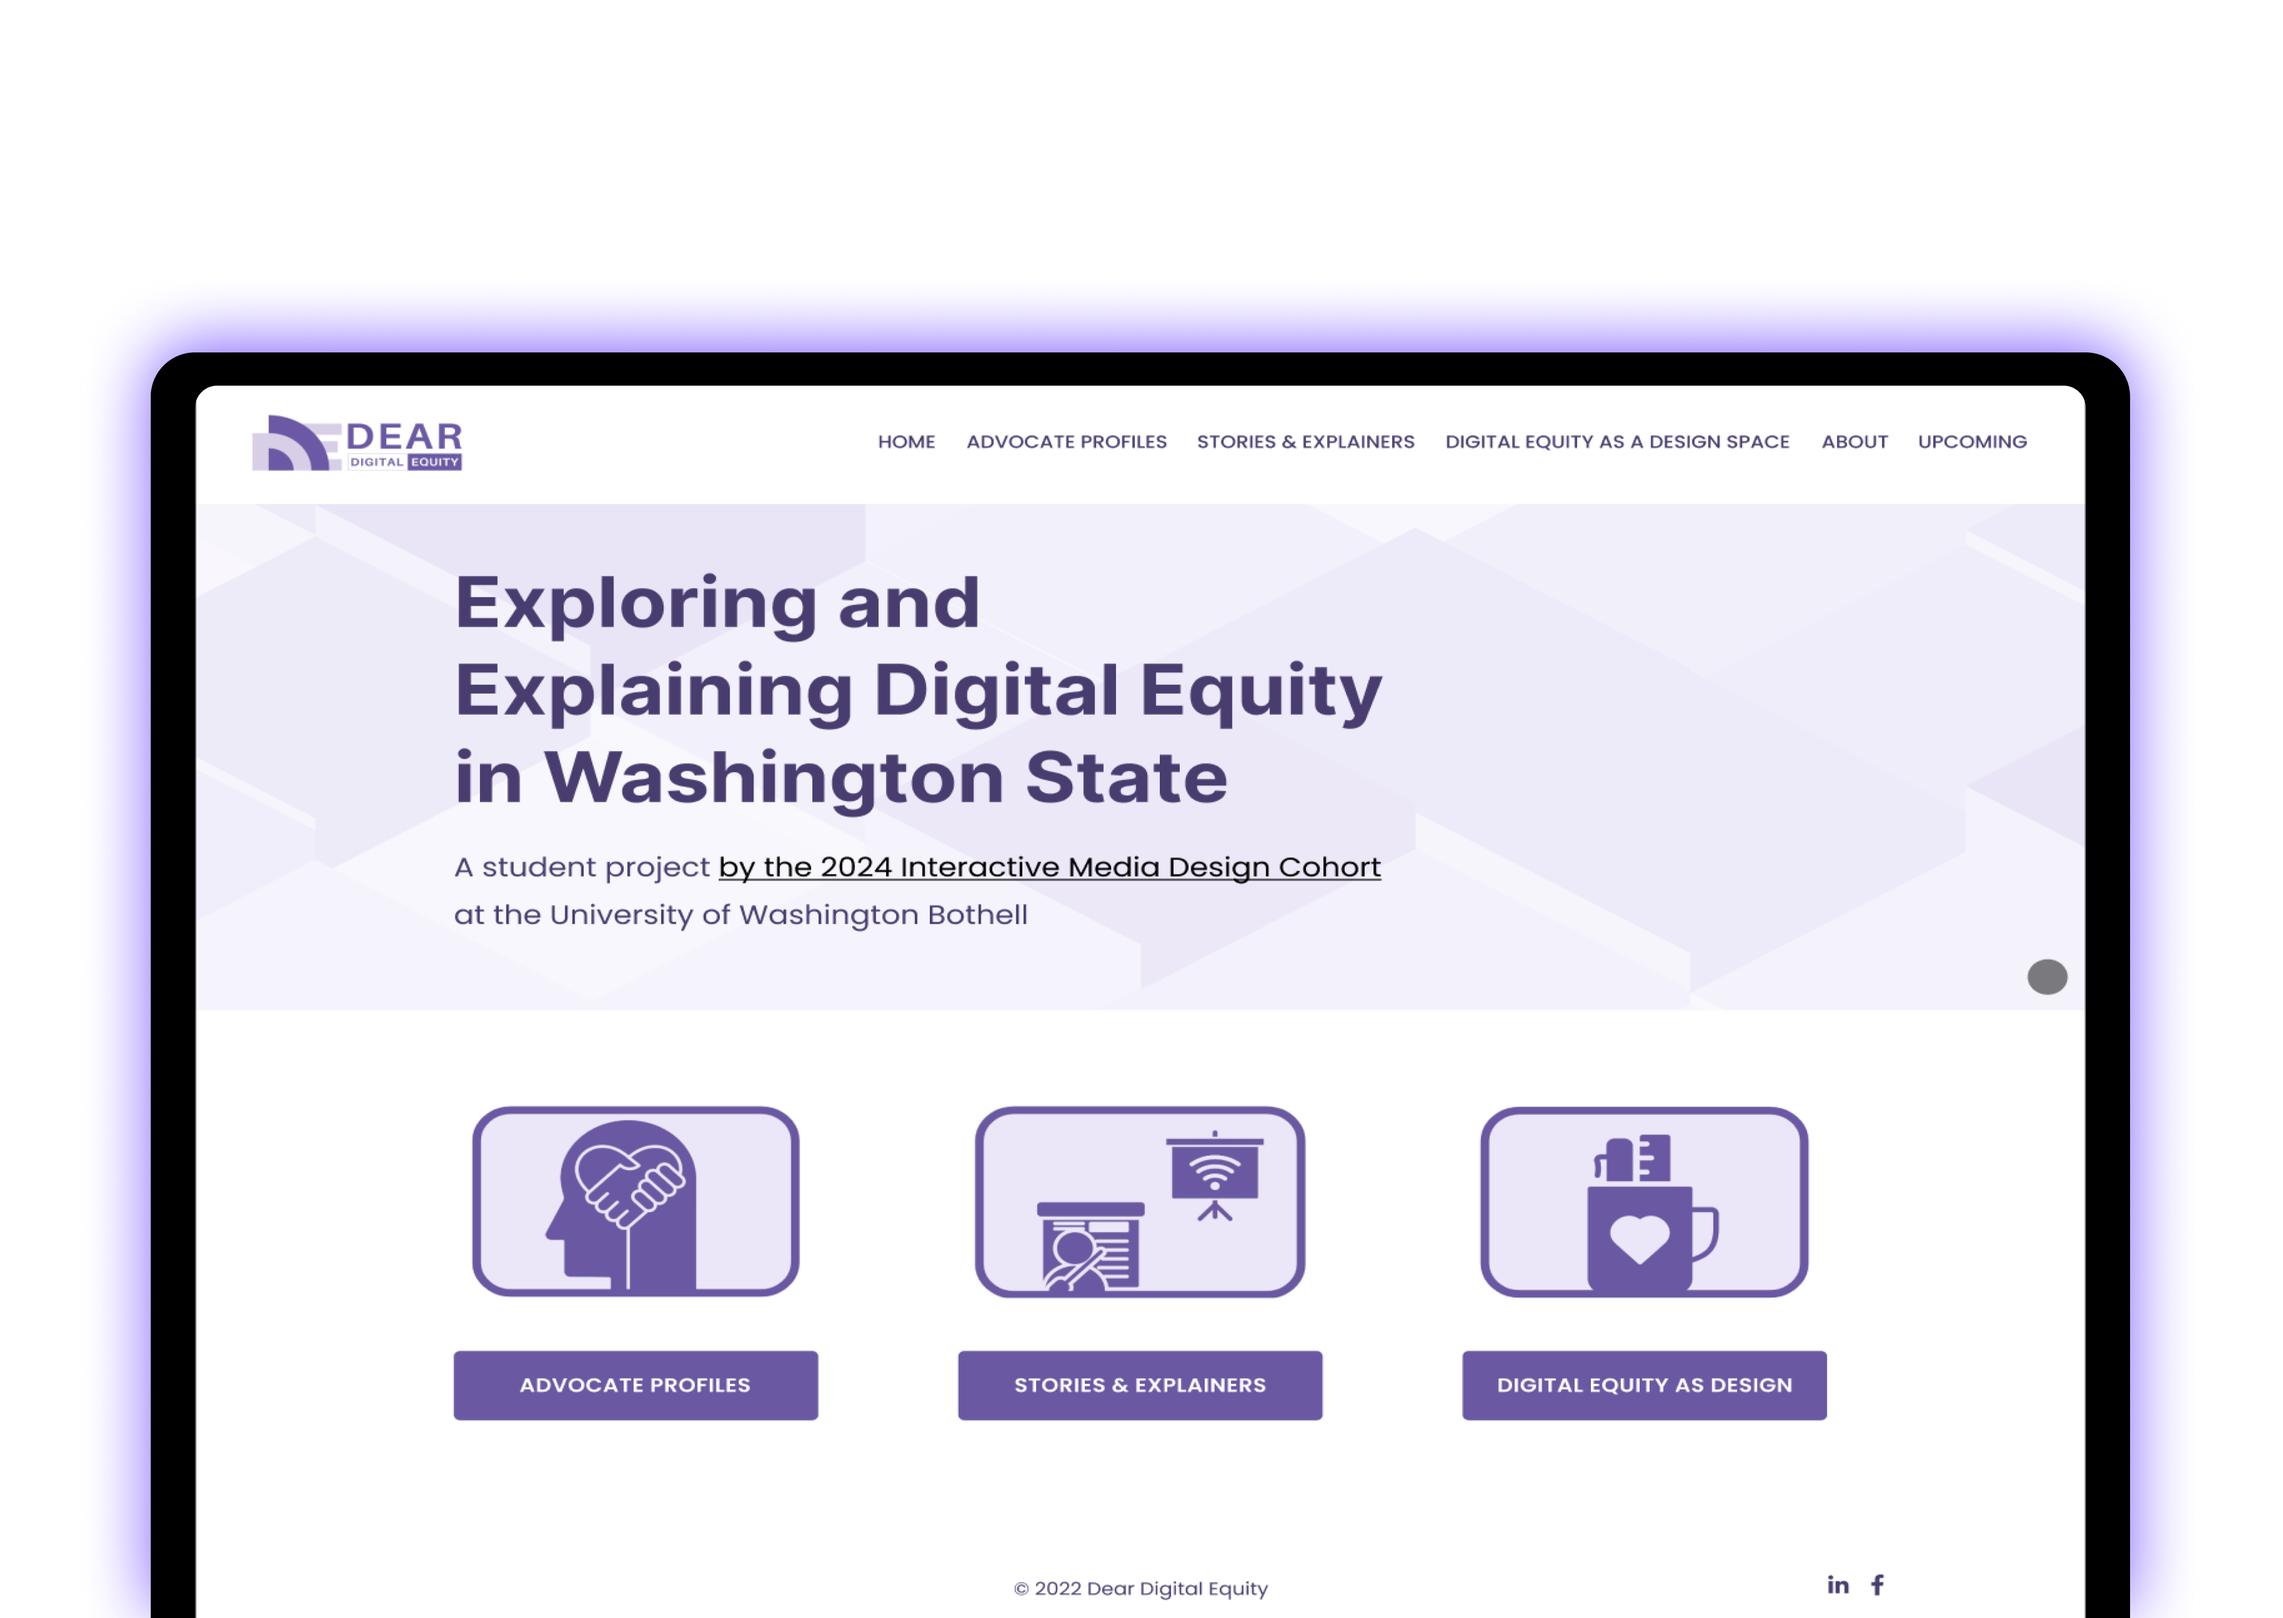
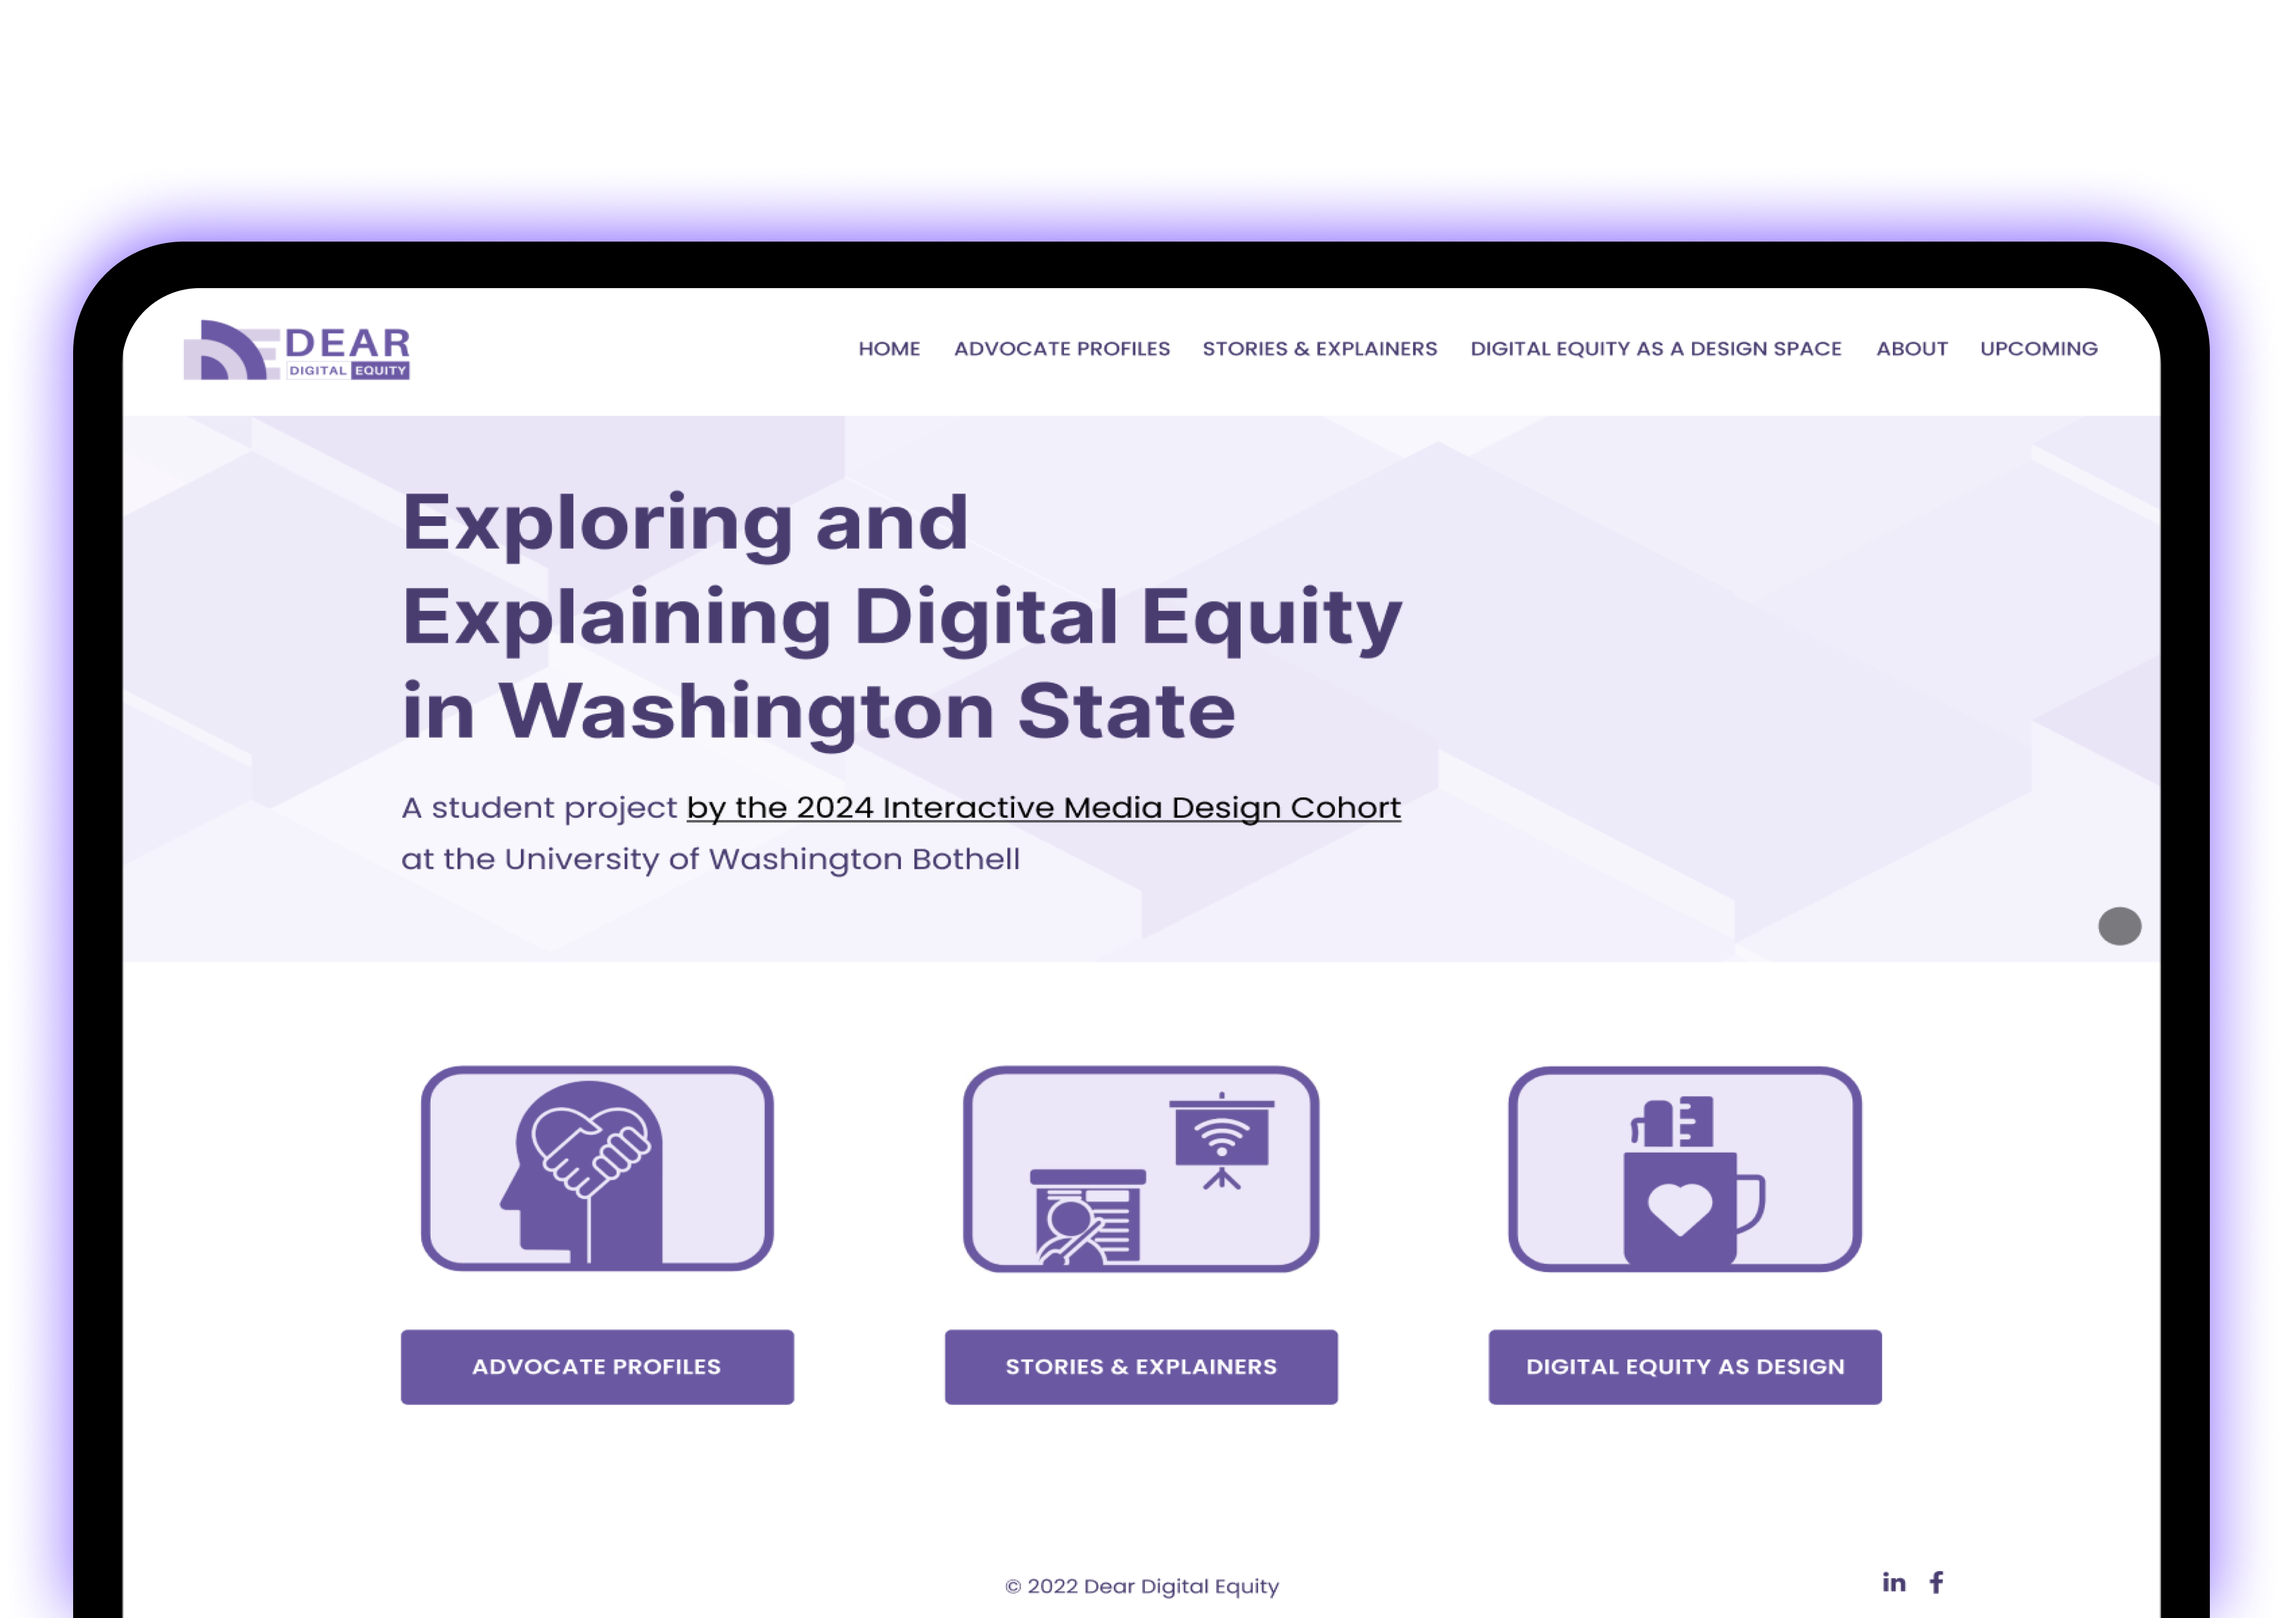
Updates - Homepage Images, Header

diff --git a/src/app/page.tsx b/src/app/page.tsx
@@ -36,7 +36,19 @@ export default function Home() {
           bgColor="#F2F2F2"
           titleColor="#252525"
         />
-
+        {/* DDE */}
+        <ProjectCard
+          title="Dear Digital Equity"
+          description="Spreading Digital Equity Awareness through Storytelling"
+          details="Web App • Community Project"
+          tags={["UI/UX Design", "Web Development"]}
+          image="/images/DDE/homeImage.png"
+          link="/projects/DDE"
+          borderColor="#EBE5FF"
+          bgColor="#F4F1FF"
+          titleColor="#6B58A3"
+          reverse
+        />
         {/* MindfulU */}
         <ProjectCard
           title="MindfulU"
@@ -90,21 +102,14 @@ export default function Home() {
             bgColor="#FFFFFF"
           />
         </div>
-        <div className="flex flex-row max-md:flex-col gap-4 mt-4">
+        {/* <div className="flex flex-row max-md:flex-col gap-4 mt-4">
           <MiniProjectCard
-            image="/images/DDE/homeImage.png" 
-            link="/projects/DDE"
-            alt="Dear Digital Equity"
-            borderColor="#EBE5FF"
-            bgColor="#F4F1FF"
-          />
-          {/* <MiniProjectCard
             image="/images/AlaisaInWonderland/homeImage.png"
             link="#"
             borderColor="#EEEEEE"
             bgColor="#FFFFFF"
-          /> */}
-        </div>
+          />
+        </div> */}
       </section>
     </section>
   );

diff --git a/src/app/components/home/hero.tsx b/src/app/components/home/hero.tsx
@@ -127,13 +127,13 @@ export default function Hero() {
         </a>
       </div>
 
-      {/* <div className="mt-56 relative w-full h-10 flex justify-center items-center">
+      <div className="mt-12 relative w-full h-10 flex justify-center items-center">
         <a
           href="#work"
           aria-label="Read more about my work below"
-          className="block w-[30px] h-[30px] border-r-[7px] border-b-[7px] border-[#252525] rotate-45 text-center absolute right-0 left-0 m-0 mx-auto"
+          className="block w-[30px] h-[30px] border-r-[7px] border-b-[7px] rotate-45 text-center absolute right-0 left-0 m-0 mx-auto"
         />
-      </div> */}
+      </div>
     </section>
   );
 }

diff --git a/src/app/components/home/miniProjectCard.tsx b/src/app/components/home/miniProjectCard.tsx
@@ -40,11 +40,11 @@ const MiniProjectCard: React.FC<MiniProjectCardProps> = ({
         />
 
         <div
-          className="absolute inset-0 bg-black hover:opacity-90 flex items-center justify-center 
-                      duration-500 opacity-0"
+          className="absolute inset-0 bg-white hover:opacity-70 flex items-center justify-center 
+                      duration-500 opacity-0 "
         >
           <div
-            className="text-white text-center text-2xl font-bold px-4 
+            className="text-gray-800 text-center text-2xl font-bold px-4 
                         duration-500"
           >
             {alt}
